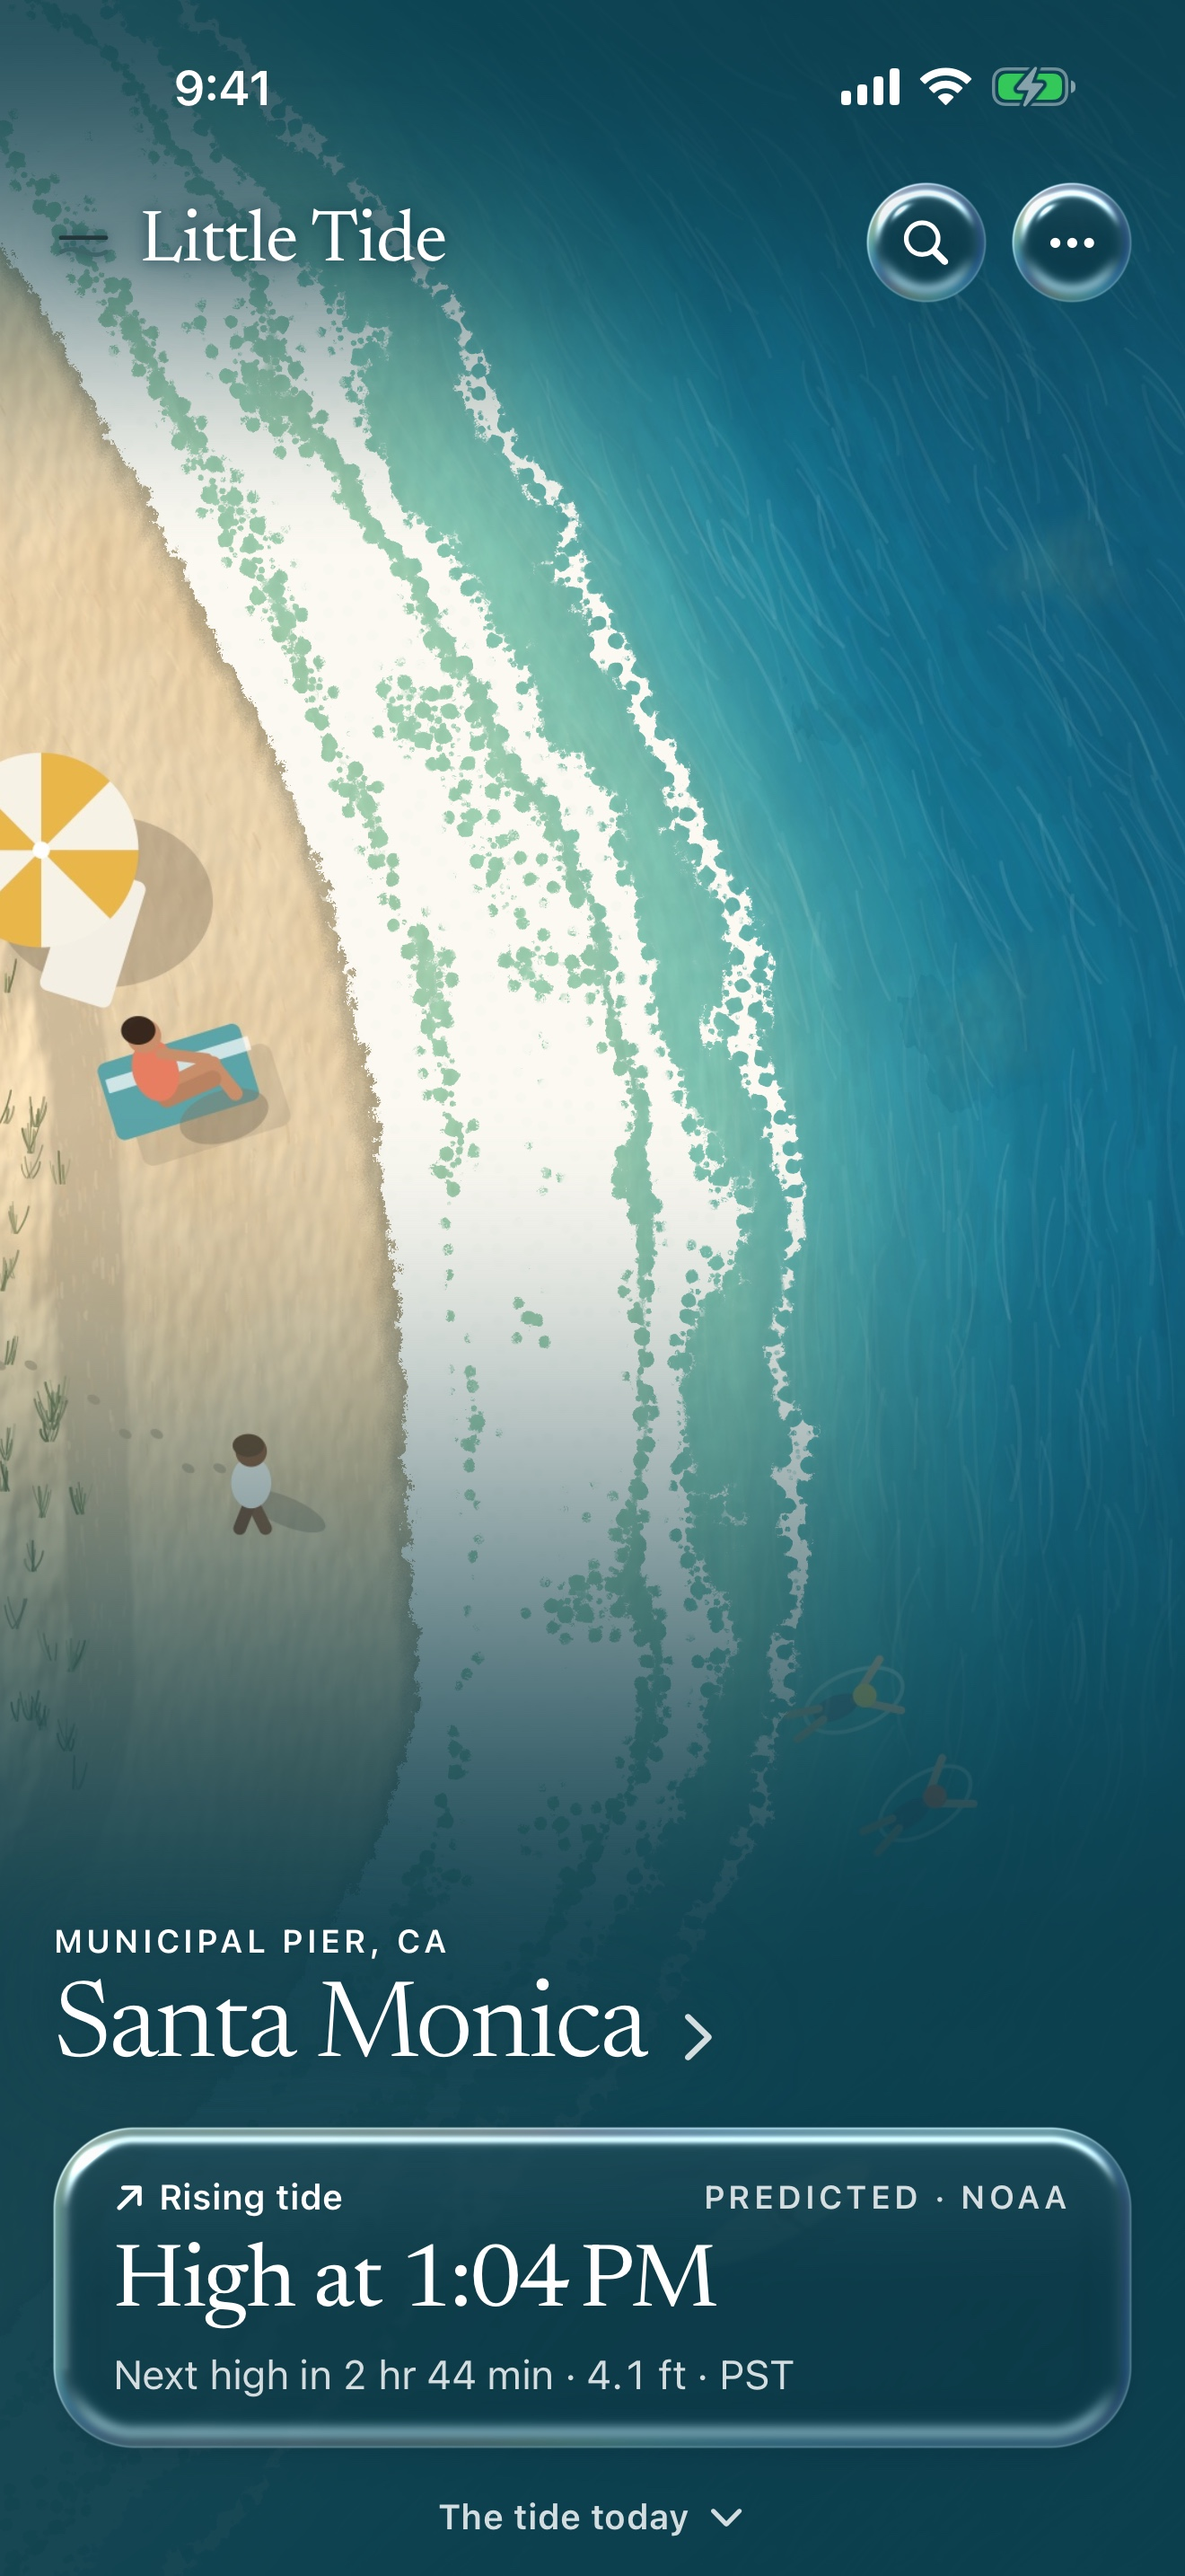
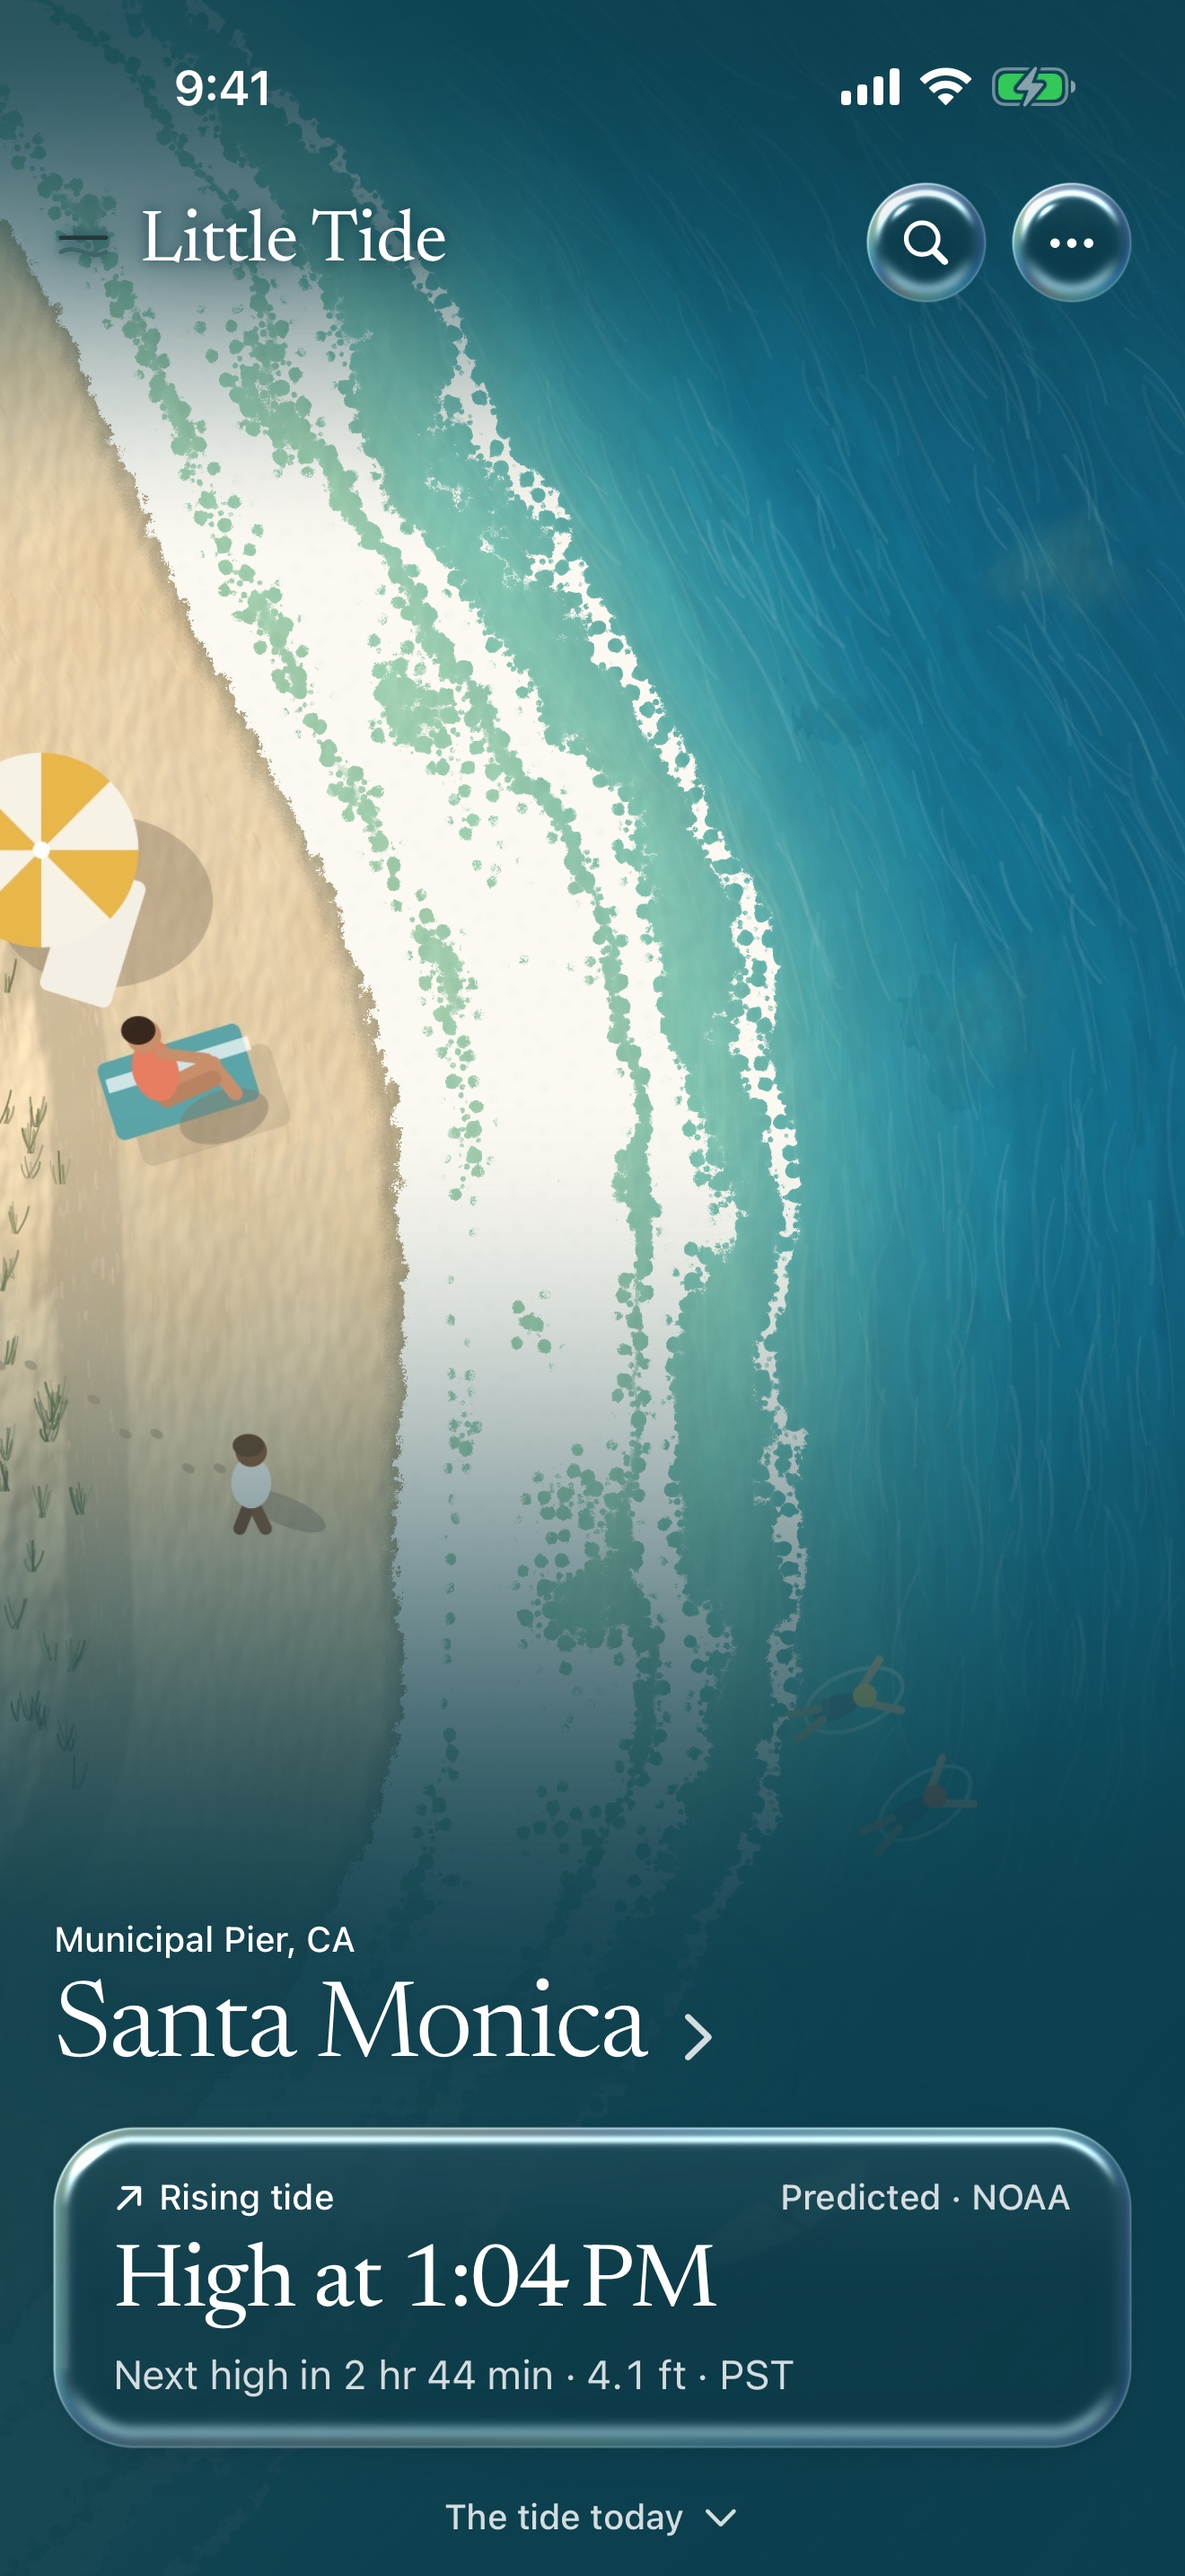
refactor: sentence-case labels, roman headings and quieter type
Tracked all-caps labels become sentence case (hero region, source tag, day readout,
highs and lows, widget event line, Lock Screen circular). The section heading drops
italic, bold symbols drop to semibold, short lines lose trailing periods, chart
markers are masked around event labels, and glass press scale eases to 0.97.
Removes the unused EditorialLabel and legacy Typography enum. Re-captures the
6.9-inch App Store screenshots.

diff --git a/Packages/TideKit/Sources/TideUI/Typography.swift b/Packages/TideKit/Sources/TideUI/Typography.swift
@@ -35,7 +35,6 @@ public enum TypeStyle: CaseIterable, Sendable {
         var sansWeight: Font.Weight = .regular
         var tracking: CGFloat = 0
         var lineSpacing: CGFloat = 0
-        var uppercase = false
         var tabular = false
         /// Widgets render at fixed sizes; don't scale with Dynamic Type there.
         var scales = true
@@ -46,7 +45,7 @@ public enum TypeStyle: CaseIterable, Sendable {
         case .brand: return Spec(size: 27, textStyle: .title2, serifWeight: 420, tracking: -0.3)
         case .heroLocation: return Spec(size: 40, textStyle: .largeTitle, serifWeight: 360, tracking: -0.8, lineSpacing: -2)
         case .heroTideTime: return Spec(size: 33, textStyle: .title, serifWeight: 430, tracking: -0.5, tabular: true)
-        case .sectionHeading: return Spec(size: 25, textStyle: .title2, serifWeight: 380, italic: true, tracking: -0.3)
+        case .sectionHeading: return Spec(size: 25, textStyle: .title2, serifWeight: 400, tracking: -0.3)
         case .eventTitle: return Spec(size: 20, textStyle: .title3, serifWeight: 420)
         case .placeTitleCompact: return Spec(size: 19, textStyle: .headline, serifWeight: 420)
         case .widgetHeroSmall: return Spec(size: 27, textStyle: .title, serifWeight: 460, tracking: -0.4, tabular: true, scales: false)
@@ -55,12 +54,12 @@ public enum TypeStyle: CaseIterable, Sendable {
         case .body: return Spec(size: 15, textStyle: .subheadline, lineSpacing: 2)
         case .bodyEmphasis: return Spec(size: 15, textStyle: .subheadline, sansWeight: .semibold)
         case .data: return Spec(size: 16, textStyle: .callout, sansWeight: .medium, tabular: true)
-        case .label: return Spec(size: 13, textStyle: .footnote, sansWeight: .semibold, tracking: 0.2)
-        case .regionLabel: return Spec(size: 12, textStyle: .caption, sansWeight: .semibold, tracking: 1.4, uppercase: true)
+        case .label: return Spec(size: 13, textStyle: .footnote, sansWeight: .medium)
+        case .regionLabel: return Spec(size: 13, textStyle: .footnote, sansWeight: .medium)
         case .metadata: return Spec(size: 12, textStyle: .caption, tabular: true)
         case .chartLabel: return Spec(size: 11, textStyle: .caption2, sansWeight: .medium, tabular: true)
         case .widgetSecondary: return Spec(size: 12, textStyle: .caption, sansWeight: .medium, tabular: true, scales: false)
-        case .widgetMicro: return Spec(size: 10, textStyle: .caption2, sansWeight: .semibold, tracking: 0.8, uppercase: true, scales: false)
+        case .widgetMicro: return Spec(size: 11, textStyle: .caption2, sansWeight: .medium, scales: false)
         }
     }
 
@@ -119,12 +118,11 @@ private struct TypeStyleModifier: ViewModifier {
             .font(style.font(for: dynamicType))
             .tracking(spec.tracking)
             .lineSpacing(spec.lineSpacing)
-            .textCase(spec.uppercase ? .uppercase : nil)
     }
 }
 
 extension View {
-    /// Applies a semantic Little Tide text style (font, tracking, leading, case).
+    /// Applies a semantic Little Tide text style (font, tracking, leading).
     public func typeStyle(_ style: TypeStyle) -> some View {
         modifier(TypeStyleModifier(style: style))
     }
@@ -170,15 +168,3 @@ extension UIFont.TextStyle {
     }
 }
 #endif
-
-/// Legacy names kept so existing call sites compile while migrating to `TypeStyle`.
-public enum Typography {
-    public static var placeTitle: Font { TypeStyle.heroLocation.font() }
-    public static var sectionTitle: Font { TypeStyle.sectionHeading.font() }
-    public static var eventTime: Font { TypeStyle.heroTideTime.font() }
-    public static var dataValue: Font { TypeStyle.data.font() }
-    public static var body: Font { TypeStyle.body.font() }
-    public static var caption: Font { .system(.footnote) }
-    public static var label: Font { TypeStyle.label.font() }
-    public static let labelTracking: CGFloat = 1.1
-}

diff --git a/Packages/TideKit/Sources/TideUI/CoastWidgetViews.swift b/Packages/TideKit/Sources/TideUI/CoastWidgetViews.swift
@@ -132,7 +132,7 @@ public struct MediumCoastCard: View {
                 VStack(alignment: .leading, spacing: 5) {
                     Text(station.displayName.title).typeStyle(.widgetPlace).foregroundStyle(colors.ink).lineLimit(2)
                     Text("Forecast unavailable").typeStyle(.widgetHeroMedium).foregroundStyle(colors.ink).minimumScaleFactor(0.6).lineLimit(1)
-                    Text("Open Little Tide to get new predictions from NOAA.").typeStyle(.widgetSecondary).foregroundStyle(colors.soft)
+                    Text("Open Little Tide to get new predictions from NOAA").typeStyle(.widgetSecondary).foregroundStyle(colors.soft)
                 }
                 Spacer(minLength: 0)
                 if rendering == .monochrome { LineArt(station: station, level: 0.5).frame(width: 110) }
@@ -182,7 +182,7 @@ public struct MediumCoastCard: View {
     }
 }
 
-/// "LOW TIDE ↘": the event kind with the direction, when defensible.
+/// "Low tide ↘": the event kind with the direction, when defensible.
 private struct EventKindLine: View {
     let ready: CoastWidgetContent.Ready
     let colors: CardColors
@@ -220,7 +220,7 @@ private struct UnconfiguredCard: View {
             TideMark().frame(width: 26, height: 26)
             Spacer(minLength: 0)
             Text("Little Tide").typeStyle(.widgetHeroMedium).foregroundStyle(CardColors(rendering: rendering).ink)
-            Text("Open the app to choose your coast.").typeStyle(.widgetSecondary).foregroundStyle(CardColors(rendering: rendering).soft)
+            Text("Open the app to choose your coast").typeStyle(.widgetSecondary).foregroundStyle(CardColors(rendering: rendering).soft)
         }
         .frame(maxWidth: .infinity, alignment: .leading)
         .accessibilityElement(children: .combine)

diff --git a/LittleTide/Features/TideTimeline/TideStudyView.swift b/LittleTide/Features/TideTimeline/TideStudyView.swift
@@ -151,12 +151,18 @@ struct TideStudyView: View {
             context.draw(resolved, at: CGPoint(x: backing.midX, y: backing.midY))
         }
 
+        // Vertical markers pass behind the event labels instead of striking through them.
+        var markers = context
+        var open = Path(CGRect(x: rect.minX - 8, y: rect.minY - 24, width: rect.width + 16, height: rect.height + 32))
+        placedLabels.forEach { open.addRect($0.insetBy(dx: -1, dy: -1)) }
+        markers.clip(to: open, style: FillStyle(eoFill: true))
+
         if window.contains(now) {
             let x = geometry.x(for: now)
             var line = Path()
             line.move(to: CGPoint(x: x, y: rect.minY))
             line.addLine(to: CGPoint(x: x, y: rect.maxY))
-            context.stroke(line, with: .color(Palette.onArt.opacity(0.6)), style: StrokeStyle(lineWidth: 1, dash: [2, 3]))
+            markers.stroke(line, with: .color(Palette.onArt.opacity(0.6)), style: StrokeStyle(lineWidth: 1, dash: [2, 3]))
         }
 
         if let selection, window.contains(selection) {
@@ -164,7 +170,7 @@ struct TideStudyView: View {
             var line = Path()
             line.move(to: CGPoint(x: x, y: rect.minY - 6))
             line.addLine(to: CGPoint(x: x, y: rect.maxY))
-            context.stroke(line, with: .color(Palette.coral), lineWidth: 1.5)
+            markers.stroke(line, with: .color(Palette.coral), lineWidth: 1.5)
             if let reading = TideEngine.height(at: selection, forecast: forecast) {
                 let y = geometry.y(for: reading.heightMeters)
                 let knob = Path(ellipseIn: CGRect(x: x - 5, y: y - 5, width: 10, height: 10))

diff --git a/LittleTide/Features/CoastHome/CoastReadyView.swift b/LittleTide/Features/CoastHome/CoastReadyView.swift
@@ -99,7 +99,7 @@ struct CoastReadyView: View {
             .dynamicTypeSize(...DynamicTypeSize.xLarge)
 
             HStack(alignment: .center, spacing: 12) {
-                Text(forecast.hasCurve ? "Drag across the day to explore NOAA’s predicted tide." : "This station publishes high and low times only. Drag to step between them.")
+                Text(forecast.hasCurve ? "Drag across the day to explore NOAA’s predicted tide" : "This station publishes high and low times only. Drag to step between them.")
                     .typeStyle(.metadata)
                     .foregroundStyle(Palette.onArtSoft)
                     .fixedSize(horizontal: false, vertical: true)
@@ -234,7 +234,7 @@ private struct DayPager: View {
                 .disabled(!canGoForward)
                 .accessibilityLabel("Next day")
         }
-        .font(.system(size: 14, weight: .semibold))
+        .font(.system(size: 14, weight: .medium))
         .foregroundStyle(Palette.onArt)
         .liquidGlass(cornerRadius: 999, kind: .button)
     }

diff --git a/LittleTide/Features/CoastHome/CoastComponents.swift b/LittleTide/Features/CoastHome/CoastComponents.swift
@@ -85,7 +85,7 @@ struct TrendBadge: View {
     var body: some View {
         HStack(spacing: 5) {
             Image(systemName: trend == .rising ? "arrow.up.right" : "arrow.down.right")
-                .font(.system(size: 12, weight: .bold))
+                .font(.system(size: 12, weight: .semibold))
                 .foregroundStyle(Palette.onArt)
             Text(trend == .rising ? "Rising tide" : "Falling tide")
                 .typeStyle(.label)
@@ -111,7 +111,7 @@ struct DayEventsList: View {
                 .padding(.bottom, 6)
                 .accessibilityAddTraits(.isHeader)
             if events.isEmpty {
-                Text("No predicted highs or lows on this day.")
+                Text("No predicted highs or lows on this day")
                     .typeStyle(.body).foregroundStyle(Palette.onArtSoft)
             }
             ForEach(events, id: \.date) { event in

diff --git a/LittleTideUITests/AccessibilityAuditTests.swift b/LittleTideUITests/AccessibilityAuditTests.swift
@@ -52,8 +52,8 @@ final class AccessibilityAuditTests: XCTestCase {
         // Rows that reflow via ViewThatFits swap views as text grows, and the wordmark's
         // growth is capped on purpose; both verified at Accessibility sizes in screenshots.
         if issue.auditType == .dynamicType, let label = issue.element?.label,
-           ["Little Tide", "The tide today", "NOW", "Now", "Rising", "Falling",
-            "Rising tide", "Falling tide", "Predicted tide", "PREDICTED · NOAA", "High tide", "Low tide"].contains(label)
+           ["Little Tide", "The tide today", "Now", "Rising", "Falling",
+            "Rising tide", "Falling tide", "Predicted tide", "Predicted · NOAA", "High tide", "Low tide"].contains(label)
             || label.hasSuffix("AM") || label.hasSuffix("PM") || label.hasSuffix(" ft") || label.hasSuffix(" m") {
             return true
         }

diff --git a/Packages/TideKit/Sources/TideUI/AccessoryCoastViews.swift b/Packages/TideKit/Sources/TideUI/AccessoryCoastViews.swift
@@ -60,9 +60,9 @@ public struct AccessoryCoastView: View {
                 .accessibilityLabel(ready.accessibilityLabel)
             } else {
                 VStack(spacing: 0) {
-                    Image(systemName: AccessoryText.symbol(for: ready)).font(.caption.weight(.bold))
+                    Image(systemName: AccessoryText.symbol(for: ready)).font(.caption.weight(.semibold))
                     Text(AccessoryText.shortTime(ready.nextTime)).font(.system(.headline, design: .rounded)).minimumScaleFactor(0.6)
-                    Text(ready.nextKindWord.uppercased()).font(.system(size: 9, weight: .semibold))
+                    Text(ready.nextKindWord).font(.system(size: 10, weight: .medium))
                 }
                 .accessibilityElement(children: .ignore)
                 .accessibilityLabel(ready.accessibilityLabel)

diff --git a/LittleTide/Features/Onboarding/OnboardingView.swift b/LittleTide/Features/Onboarding/OnboardingView.swift
@@ -61,7 +61,7 @@ struct OnboardingView: View {
 
     private var card: some View {
         VStack(alignment: .leading, spacing: 14) {
-            Text("A little window into your coast.")
+            Text("A little window into your coast")
                 .typeStyle(.heroLocation)
                 .foregroundStyle(Palette.onArt)
                 .fixedSize(horizontal: false, vertical: true)
@@ -81,7 +81,7 @@ struct OnboardingView: View {
             .foregroundStyle(Palette.oceanDeep)
             .padding(.top, 6)
             .accessibilityIdentifier("chooseCoast")
-            Text("No account or location needed.")
+            Text("No account or location needed")
                 .typeStyle(.metadata)
                 .foregroundStyle(Palette.onArtSoft)
                 .frame(maxWidth: .infinity)

diff --git a/LittleTide/Features/CoastHome/CoastHero.swift b/LittleTide/Features/CoastHome/CoastHero.swift
@@ -112,7 +112,7 @@ struct CoastHero<Card: View>: View {
             .accessibilityLabel("Change coast")
             .accessibilityIdentifier("changeCoast")
             Button(action: actions.openSettings) {
-                Image(systemName: "ellipsis").font(.system(size: 17, weight: .bold)).frame(width: 44, height: 44)
+                Image(systemName: "ellipsis").font(.system(size: 17, weight: .semibold)).frame(width: 44, height: 44)
             }
             .buttonStyle(LiquidGlassButtonStyle())
             .accessibilityLabel("Settings")

diff --git a/Packages/TideKit/Sources/TideUI/EditorialComponents.swift b/Packages/TideKit/Sources/TideUI/EditorialComponents.swift
@@ -1,20 +1,5 @@
 import SwiftUI
 
-/// Small uppercase editorial label, e.g. "PREDICTED TIDE · NOAA".
-public struct EditorialLabel: View {
-    let text: String
-
-    public init(_ text: String) { self.text = text }
-
-    public var body: some View {
-        Text(text)
-            .font(Typography.label)
-            .tracking(Typography.labelTracking)
-            .textCase(.uppercase)
-            .foregroundStyle(Palette.inkSoft)
-    }
-}
-
 /// A hairline rule in the sand colour.
 public struct Hairline: View {
     public init() {}

diff --git a/Packages/TideKit/Sources/TideUI/Glass.swift b/Packages/TideKit/Sources/TideUI/Glass.swift
@@ -64,7 +64,7 @@ public struct GlassButtonStyle: ButtonStyle {
     public func makeBody(configuration: Configuration) -> some View {
         configuration.label
             .glassSurface(Capsule(), interactive: true)
-            .scaleEffect(configuration.isPressed && !reduceMotion ? 0.95 : 1)
+            .scaleEffect(configuration.isPressed && !reduceMotion ? 0.97 : 1)
             .animation(reduceMotion ? nil : .easeOut(duration: 0.18), value: configuration.isPressed)
     }
 }

diff --git a/LittleTideUITests/LittleTideUITests.swift b/LittleTideUITests/LittleTideUITests.swift
@@ -32,7 +32,7 @@ final class LittleTideUITests: XCTestCase {
 
     func testFirstLaunchSearchAndChooseCoast() {
         let app = launch("onboarding")
-        XCTAssertTrue(app.staticTexts["A little window into your coast."].waitForExistence(timeout: 5))
+        XCTAssertTrue(app.staticTexts["A little window into your coast"].waitForExistence(timeout: 5))
         snapshot(app, "01-onboarding")
         app.buttons["chooseCoast"].tap()
 
